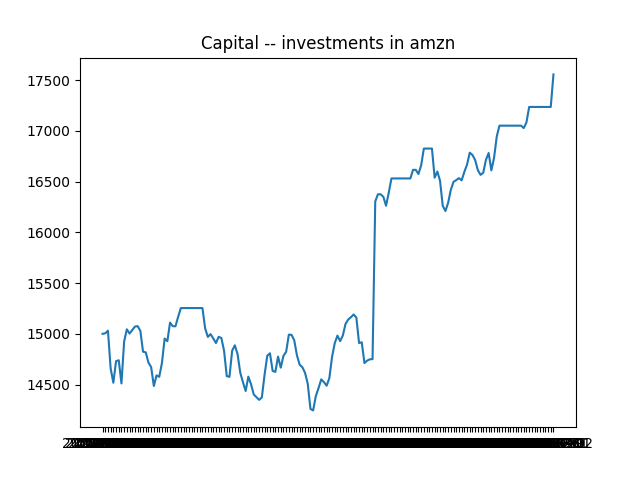
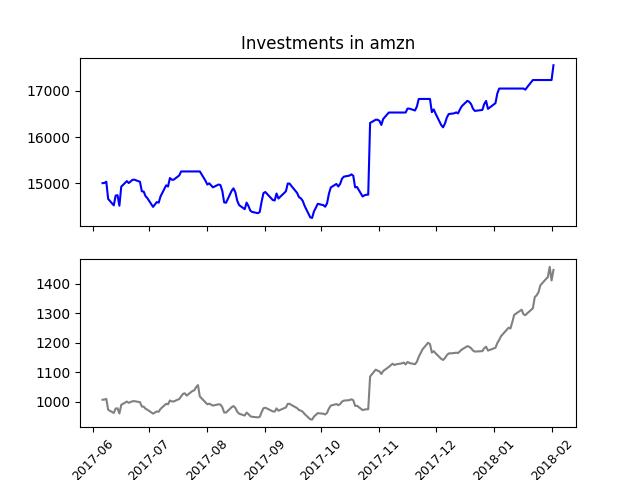
Fixed capital plotting

diff --git a/environment.py b/environment.py
@@ -2,6 +2,7 @@ from mongoObjects import CollectionManager,MongoClient
 from strategy import Strategy
 from agent import InvestorAgent
 from arima import ArimaModel
+from putAndGetData import avg_price_timeseries
 import argparse
 import utils
 
@@ -38,6 +39,7 @@ if __name__ == '__main__':
     parser.add_argument('--p',help='percent change to flag',default=0.03,type=float,required=False)
     parser.add_argument('--ticker',help='stock to consider',default='aapl',type=str,required=False)
     parser.add_argument('--sharePer',help='percent possible shares to buy',default=1.0,type=float,required=False)
+    parser.add_argument('--stop', help='stop date YYYY-MM-DD',default='2018-02-05',required=False,type=str)
     args = parser.parse_args()
 
 
@@ -49,6 +51,7 @@ if __name__ == '__main__':
     dates = manager.dates()
     currentDate = args.startDate
     startDay = dates.index(currentDate)
+    stopDay = dates.index(args.stop)
 
 
     # Predictive Model
@@ -61,11 +64,8 @@ if __name__ == '__main__':
     investor = InvestorAgent(args.startingCapital, tradingStrategy, startDay)
     environment = Environment(manager, investor,startDay)
 
-    stopDay = len(dates)-1 #Todo: this should be set to this
     # Simulate Trading Environment
     for d in range(startDay,stopDay):
-        if d == 1261:
-            print('uh oh')
         # If investor is already holding one or more positions
         if len(investor.positions):
             for position in investor.positions:
@@ -84,9 +84,9 @@ if __name__ == '__main__':
         environment.update_total_assets(investor)
         environment.increment_day(investor.strategy)
 
-
+    actualPrice = avg_price_timeseries(manager,args.ticker,dates[startDay:stopDay])
     print(str(round(((investor.capitalHistory[len(investor.capitalHistory)-
                                               1]-args.startingCapital)/args.startingCapital)*100))+'%')
 
-    utils.plot_capital(investor.totalAssetHistory,dates[startDay:stopDay],args.ticker)
+    utils.plot_capital(investor.totalAssetHistory,dates[startDay:stopDay],args.ticker,actualPrice)
 

diff --git a/utils.py b/utils.py
@@ -14,9 +14,13 @@ def split(timeseries:list,percent:float):
     test = timeseries[index:]
     return train,test
 
-def plot_capital(capital:list,time:list,stock:str):
-    dates = [dt.datetime.strptime(d, "%Y-%m-%d-%H") for d in time]
-    plt.plot(dates,capital)
-    plt.title('Capital -- investments in '+stock)
+def plot_capital(capital:list,time:list,stock:str,actual:list):
+    dates = [dt.datetime.strptime(d, "%Y-%m-%d") for d in time]
+    f, axarr = plt.subplots(2, sharex=True)
+    axarr[0].plot(dates,capital,color='blue',label='Investor')
+    axarr[0].set_title('Investments in '+stock)
+    axarr[1].plot(dates,actual,color='grey',label=stock+' Price')
+    plt.legend()
+    plt.xticks(fontsize=9, rotation=45)
     plt.savefig('capital.png')
     plt.show()

diff --git a/strategy.py b/strategy.py
@@ -69,19 +69,3 @@ if __name__ == '__main__':
         date = dates[d]
         strat = Strategy(model,manager,ticker,date,stopLoss,p)
         print(strat.arithmetic_returns(k, d))
-
-
-
-    #
-    # # Plot distribution of Ts
-    # with open('Ts.txt','r')as t:
-    #     lines = t.read().replace('/','')
-    #     Ts = lines.split(',')
-    #     Ts = [float(x) for x in Ts]
-    # sns.distplot(Ts,75)
-    # plt.xlim(-1,1.5)
-    # plt.xticks(np.arange(-1,1.5,.25))
-    # plt.title('Arithmetic Returns')
-    # plt.xlabel('p%')
-    # plt.savefig('/Users/adelekap/Documents/capstone_algo_trading/plots/arithReturnsDist.pdf')
-    # plt.show()

diff --git a/putAndGetData.py b/putAndGetData.py
@@ -80,6 +80,17 @@ def get_closes_highs_lows(manager,ticker):
         dates.append(dt.datetime.strptime(row['date'], "%Y-%m-%d"))
     return closes,highs,lows,dates
 
+def avg_price_timeseries(manager,ticker,dates):
+    series = []
+    for date in dates:
+        data = manager.find({'ticker':ticker,'date':date})
+        c = data['close']
+        h = data['high']
+        l = data['low']
+        avg = (c+h+l)/3.0
+        series.append(avg)
+    return series
+
 
 if __name__ == '__main__':
     manager = CollectionManager('5Y_technicals', MongoClient()['AlgoTradingDB'])

diff --git a/agent.py b/agent.py
@@ -50,7 +50,5 @@ class InvestorAgent(object):
     def update_assets(self,update):
         self.totalAssetHistory.append(update)
 
-
-
     def short(self):
         pass #Todo:implement!
